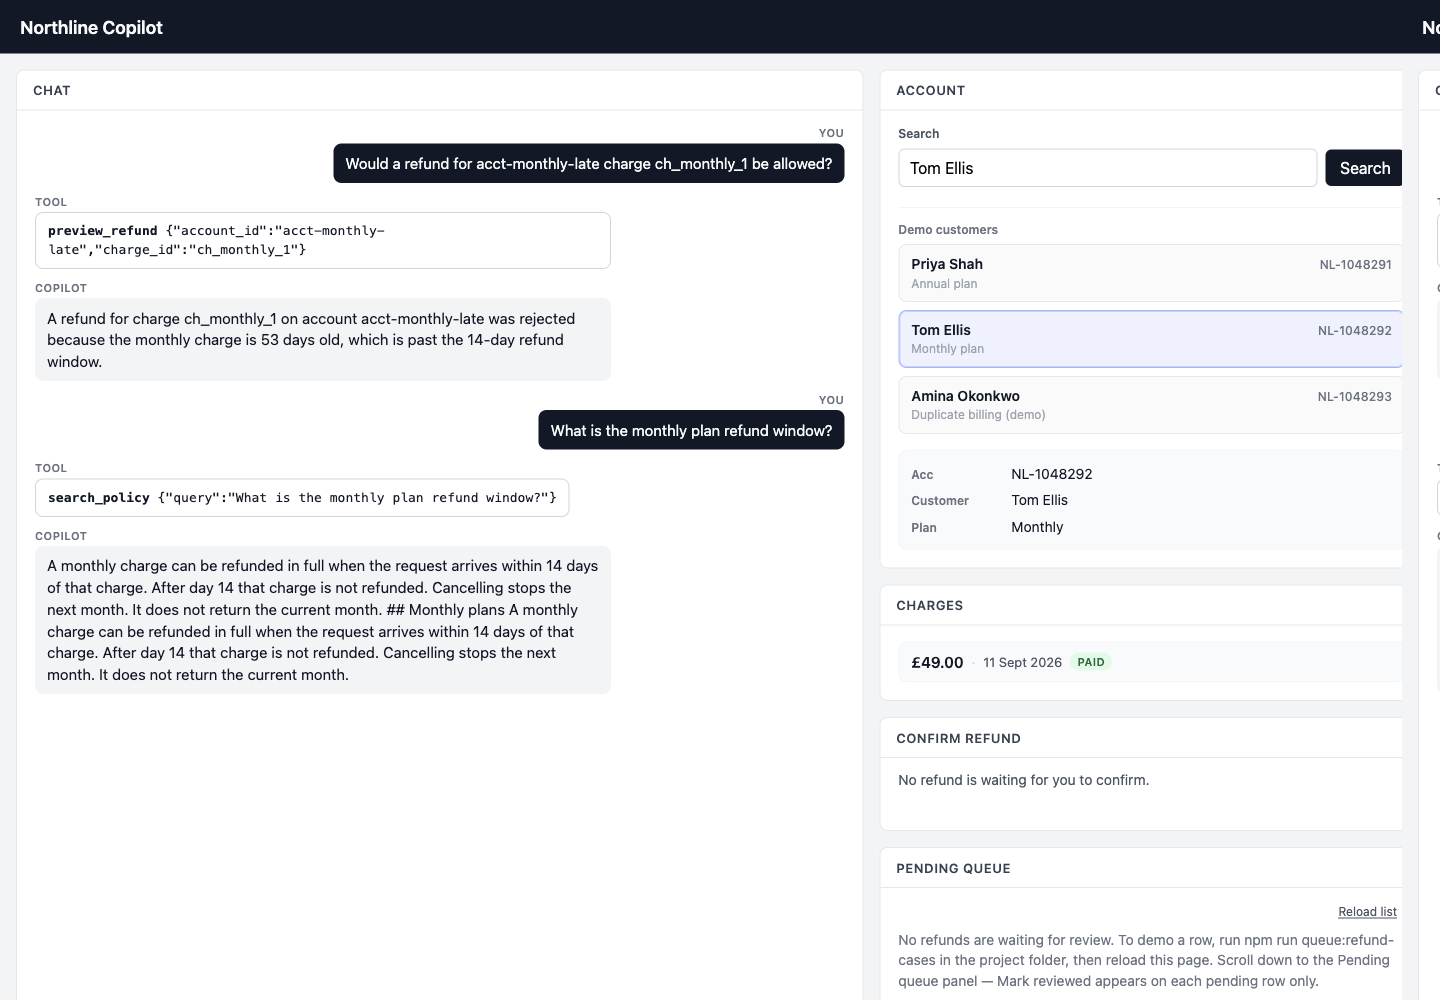
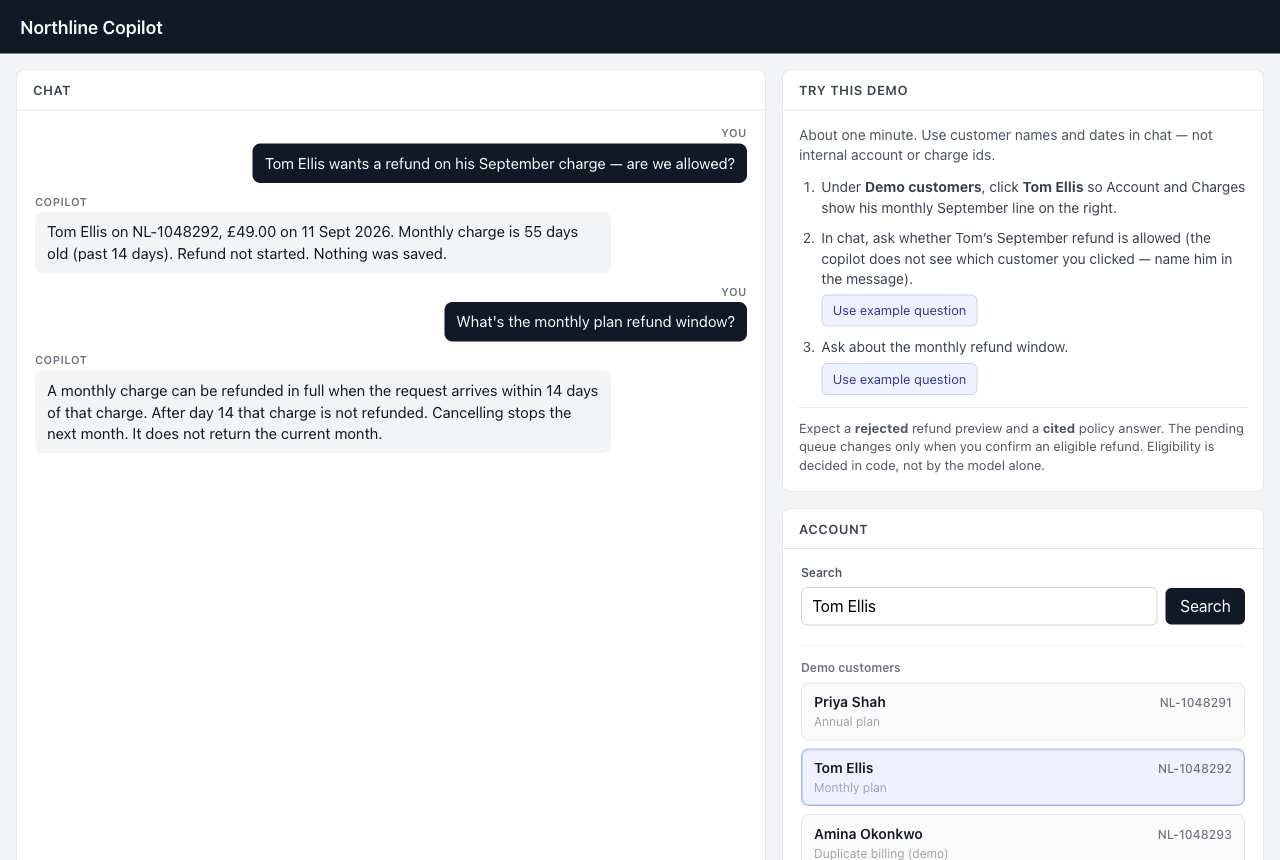
Shorten the README and refresh workspace screenshots from production.

diff --git a/README.md b/README.md
@@ -1,232 +1,52 @@
 # Northline Copilot
 
-A billing support workspace for Northline, a fictional B2B SaaS company. An operator asks about an account in chat. The model looks up facts and quotes stored policy. Refund eligibility is decided in TypeScript. A human confirms before anything is queued. Nothing in this app pays money.
+A demo billing desk for a fictional SaaS company. A support rep asks in plain English about a customer, their charges, a refund, or a stored policy section. The model only chooses a lookup. The answer comes from the database and from refund rules in code. A person has to confirm before anything is queued. Nothing pays out.
 
-All customer, charge, and policy data in the repository is synthetic.
+All customer, charge, and policy data is synthetic.
 
-**Live app:** https://northline-copilot.vercel.app
+**Live app:** https://northline-copilot.vercel.app  
+Password: `northline-demo`
 
-Sign in with the shared demo password `northline-demo`. It is checked on the server and stored only as an HttpOnly cookie. It is not a user account.
+## Try it
 
-## Try the monthly-late case
+1. Sign in and click **Tom Ellis** under Demo customers.
+2. Ask: `Tom Ellis wants a refund on his September charge — are we allowed?`
+3. Ask: `What's the monthly plan refund window?`
 
-In the live workspace, use the **Try this demo** panel on the right (steps and example questions). The walkthrough below is the same journey for readers of this file.
+Tom’s £49 charge from 11 Sept 2026 is past the 14-day window, so the reply is a rejection and Confirm stays empty. The citations panel quotes the stored monthly paragraph. Use a customer name or an NL number. You do not need internal ids.
 
-1. Open https://northline-copilot.vercel.app and sign in with `northline-demo`.
-2. In **Demo customers**, click **Tom Ellis**. The Account panel shows **NL-1048292** and a monthly plan. Charges shows **£49.00** on **11 Sept 2026**.
-3. In chat, ask something you would actually type on a desk, for example:
-   - `Tom Ellis wants a refund on his September charge — are we allowed?`
-   - or, using the account number on the panel: `Can we refund the September charge for NL-1048292?`
-4. Ask: `What's the monthly plan refund window?`
+![Chat rejects Tom Ellis’s September charge. Confirm is not offered.](docs/screenshots/workspace-top.png)
 
-You should see `preview_refund` reject the charge, no confirm button, and an empty pending queue. The policy reply quotes the stored monthly-plan passage, and the citations panel names document `refunds` and chunk `refunds-monthly-plans`. You do not need internal ids like `acct-monthly-late` or `ch_monthly_1` in chat; the server resolves the customer name, the NL- number, or the month against the demo seed when you ask about a refund.
+![Tom’s £49 charge, an empty confirm panel, Priya already waiting, and the monthly policy citation.](docs/screenshots/workspace-citations.png)
 
-Checked on 2026-11-03 against production. The monthly charge was 53 days old, past the 14-day window. `pending_refunds` stayed at 5 rows, 0 pending, and none of them were for `acct-monthly-late`.
+## What a question can do
 
-![Chat rejects the monthly refund and quotes the 14-day window](docs/screenshots/workspace-top.png)
+- Look up one of the three customers, or list their charges.
+- Quote a stored policy section. A topic that is not stored is refused.
+- Check whether one charge can be refunded. The check writes nothing.
+- Read who already has a refund waiting.
 
-![Citations name refunds / refunds-monthly-plans, and the pending queue stays empty](docs/screenshots/workspace-citations.png)
+Confirm appears only after an eligible preview. It posts to `POST /api/refunds/confirm` when the signed session cookie and the proposal cookie match. That inserts a pending row for a person to review. Chat cannot queue a refund by itself.
 
-The same rules are on the local MCP server. Setup is below.
+Annual charges: 30 days. Monthly charges: 14 days. A later successful charge on the same invoice can still be queued. Tests pin the calendar to **2026-10-22**. The live app uses today’s date. Priya’s annual charge is dated 2026-10-11, so that window closes after 2026-11-10.
 
-## Architecture
+## Demo customers
 
-The website and the MCP server both call `lib/`. Refund windows are not copied into SQL, the prompt, or the page.
-
-```text
-Browser (session cookie)
-  POST /api/chat          → lib/chat.ts → OpenAI, then dispatchTool
-  POST /api/tools         → dispatchTool
-  POST /api/refunds/confirm → queueRefund, only if the proposal cookie matches
-  GET  /api/pending-refunds
-  POST /api/pending-refunds/review
-
-MCP stdio (no session cookie)
-  mcp/server.js → dispatchTool for reads and preview
-                → queueRefund only after the human form matches the ids
-
-lib/
-  tools.ts        argument checks, one audit row per call
-  refundRules.ts  eligibility
-  refunds.ts      one Postgres transaction, at most one pending row
-  policy.ts       pgvector search
-  accounts.ts     reads through the Supabase service role
-```
-
-Reads of accounts and charges use `SUPABASE_URL` and `SUPABASE_SERVICE_ROLE_KEY` on the server. Writes, audit rows, token counts, and policy search use `DATABASE_URL`, a Postgres session-mode connection on port 5432. OpenAI is called only from the server. The browser never sees the API key, the service role key, or the session value.
-
-Chat may call `get_account`, `list_charges`, `search_policy`, and `preview_refund`. It cannot call `request_refund`. When a preview would be pending, the route stores that proposal on a second HttpOnly cookie. The confirm button posts the account id and charge id to `POST /api/refunds/confirm`. A `confirmed` field in the body is ignored. The ids have to match the cookie or nothing is inserted.
-
-`GET /api/accounts/[accountId]` is the same account read behind the session cookie. The workspace panels use `POST /api/tools`.
-
-## Tools
-
-| Tool | Who can call it | What it does |
+| Customer | Account | Story |
 | --- | --- | --- |
-| `get_account` | Chat and MCP | One account: customer, plan, id, charges. |
-| `list_charges` | Chat and MCP | Charge lines for one account. A missing account is an error, not an empty list. |
-| `search_policy` | Chat and MCP | Nearest stored policy passages, each with document id and chunk id. |
-| `preview_refund` | Chat and MCP | Same eligibility rules as a write. Returns `pending` or `rejected`. Inserts nothing. |
-| `request_refund` | Not a chat tool. MCP only, after a human form | Calls `queueRefund` when the human types the same account id and charge id. |
+| Priya Shah | NL-1048291 | Annual, £1,788 on 11 Oct 2026. Eligible inside 30 days. |
+| Tom Ellis | NL-1048292 | Monthly, £49 on 11 Sept 2026. Past 14 days. |
+| Amina Okonkwo | NL-1048293 | Two £149 charges on one invoice. The duplicate can be queued. |
 
-Unknown tool names, including a model call to `request_refund` on the website, are logged as “Unknown tool.” with `pending_row_created` false. No pending row is inserted.
-
-## Refund rules
-
-`requestRefund` and `previewRefund` in `lib/refundRules.ts` share one decision:
-
-- Annual plan: the charge is within 30 days.
-- Monthly plan: the charge is within 14 days.
-- Duplicate: a later successful charge on the same invoice can be queued even when the original is outside the window.
-- A charge that already has a pending row is rejected.
-- Reject means nothing is appended.
-
-The live app uses the real calendar day. The eval script pins that day to **2026-10-22**, so the three seed stories stay stable in tests. On the deployed app the age changes as the calendar moves. `ch_annual_1` is dated 2026-10-11, so the annual window on production closes after 2026-11-10.
-
-`queueRefund` runs that decision inside one Postgres transaction. A partial unique index on `(account_id, charge_id)` where status is `pending` stops two pending rows for the same charge.
-
-## MCP setup
-
-`mcp/server.js` is a local stdio process. Cursor starts it. The browser does not call it, and it does not read the website session cookie. It loads `SUPABASE_URL`, `SUPABASE_SERVICE_ROLE_KEY`, `DATABASE_URL`, and `OPENAI_API_KEY` from the repo `.env`.
-
-`request_refund` is registered because `@modelcontextprotocol/sdk` 1.32.2 can ask the human to confirm (`Server.elicitInput`, form mode). The handler ignores any confirmation field on the model arguments. Decline, a mismatched id, or a client that cannot show the form inserts nothing.
-
-Point Cursor at the server with the absolute path to `mcp/server.js` on your machine. This checkout uses `.cursor/mcp.json`:
-
-```json
-{
-  "mcpServers": {
-    "northline": {
-      "command": "node",
-      "args": ["/Users/niallbennett/Desktop/northline-copilot/mcp/server.js"]
-    }
-  }
-}
-```
-
-Replace that path if you cloned the repo somewhere else. Run `npm install` first so `tsx` can load the TypeScript in `lib/`.
-
-Checked from this checkout on 2026-11-03. `preview_refund` for `acct-monthly-late` / `ch_monthly_1` returned rejected, 53 days old, past 14 days, including when the arguments carried `confirmed: true`. `search_policy` for “monthly plan refund window” returned `refunds` / `refunds-monthly-plans`. `request_refund` for the same charge, again with `confirmed: true`, asked for the form. Declining it saved nothing. The pending table did not gain a row.
-
-## Limits
-
-- The app queues a pending review. It does not send a payout.
-- A person can talk the model into asking for a refund or an exception. There is no general prompt-injection detector. `preview_refund` and `queueRefund` still decide, and a rejected or unknown call does not insert a row.
-- A policy quote is kept only when its document id and chunk id were in that turn’s `search_policy` result and the quote is inside that passage. If nothing meets the cutoff, the reply is a refusal and no quote is kept.
-- The similarity cutoff is 0.45 cosine similarity on `text-embedding-3-small`. It was set between known-supported questions (at least 0.476) and known-unsupported ones (at most 0.370). It does not prove a passage answers the question.
-- Chat accepts a message up to 2000 characters and the last 20 turns. One model step runs at most 3 tool calls.
-- The chat model defaults to `gpt-4.1-mini`. Set `OPENAI_MODEL` to override it.
-- Row level security is on for every public table, and there are no policies. The Data API cannot read or write those tables. The service role key stays on the server.
-- MCP is a local process. It is not deployed with the website.
-
-## Eval scorecard
-
-`npm run eval` runs the 45-case set in `tests/evals/scorecard.ts`. Refund cases use the story date **2026-10-22**. The script clears pending rows for `ch_annual_1`, `ch_monthly_1`, `ch_double_dup`, and `ch_double_1` before and after. It does not print an accuracy percentage.
-
-One run on 2026-11-02: **45 pass, 0 fail**. The sample token total is from `chat-cite-annual` in that run (“What is the annual plan refund window?”): 768 prompt tokens, 91 completion tokens, **859 total tokens**.
-
-| Case | Result |
-| --- | --- |
-| `annual-in-window` | pass |
-| `monthly-too-old` | pass |
-| `duplicate-charge` | pass |
-| `unknown-account-queue` | pass |
-| `second-request` | pass |
-| `concurrent-submit` | pass |
-| `preview-annual` | pass |
-| `preview-monthly` | pass |
-| `preview-duplicate` | pass |
-| `preview-unknown-account` | pass |
-| `preview-override` | pass |
-| `preview-unknown-charge` | pass |
-| `preview-original-too-old` | pass |
-| `preview-blank-id` | pass |
-| `failed-request-refund` | pass |
-| `get-account-annual` | pass |
-| `get-account-missing` | pass |
-| `list-charges-double` | pass |
-| `list-charges-missing` | pass |
-| `policy-annual-window` | pass |
-| `policy-monthly-window` | pass |
-| `policy-grace-period` | pass |
-| `policy-scale-uptime` | pass |
-| `policy-escalate-engineering` | pass |
-| `policy-invoices` | pass |
-| `policy-double-charge` | pass |
-| `policy-starter` | pass |
-| `policy-growth` | pass |
-| `policy-service-credit` | pass |
-| `policy-money-returned` | pass |
-| `policy-clock-skew` | pass |
-| `policy-front-line` | pass |
-| `policy-miss-crypto-refund` | pass |
-| `policy-miss-office-snack-policy` | pass |
-| `policy-miss-parental-leave-policy` | pass |
-| `policy-miss-pet-insurance-benefit` | pass |
-| `policy-miss-stock-option-vesting-schedule` | pass |
-| `citation-matching-chunk` | pass |
-| `chat-cite-annual` | pass |
-| `chat-cite-monthly` | pass |
-| `chat-refuse-crypto` | pass |
-| `chat-refuse-snack` | pass |
-| `chat-preview-no-write` | pass |
-| `chat-override` | pass |
-| `chat-failed-tool` | pass |
-
-## Production
-
-The Vercel project is `northline-copilot`. The framework preset is Next.js and the output directory is the Next.js default. An earlier production deploy failed because the project looked for a `public` output folder after `next build`. Production is https://northline-copilot.vercel.app. Deployment protection is off, so the URL opens without a Vercel login. The demo password is the gate.
-
-Server environment variables on Production, names only:
-
-`OPENAI_API_KEY`, `DATABASE_URL`, `SUPABASE_URL`, `SUPABASE_SERVICE_ROLE_KEY`, `DEMO_PASSWORD`, `SESSION_SECRET`.
-
-Do not prefix any of those with `NEXT_PUBLIC_`. Optional: `OPENAI_MODEL`.
-
-The Supabase project is `northline-copilot` in `eu-west-1`. Row level security is enabled on `accounts`, `charges`, `pending_refunds`, `policy_chunks`, `audit_logs`, and `chat_token_usage`, with no policies. `DATABASE_URL` is the session pooler on port **5432**, not the transaction pooler on 6543. Percent-encode special characters in the password.
-
-`chat_token_usage` stores prompt, completion, and total tokens for a chat turn. It does not store the message text or the API key.
-
-## Local setup
-
-1. `npm install`
-2. Copy `.env.example` to `.env` and fill in the same server variables as production.
-3. Apply migrations to the linked project when a new file is added:
+## Local
 
 ```bash
-supabase migration list --linked
-supabase db push
+npm install
+cp .env.example .env   # same server variables as production
+npm run dev            # http://localhost:3000
+npm test
 ```
 
-Policy search needs embeddings. After the policy migration, `npm run embed:policy` fills the vector column. The linked project already has them.
+`mcp/server.js` is a local stdio server with the same lookups. It does not use the website cookie. A refund from MCP still needs the human confirm form. Point Cursor at it from `.cursor/mcp.json`.
 
-```bash
-npm run dev                   # http://localhost:3000
-npm test                      # refund rules and other unit tests, no database
-npm run test:integration      # queueRefund against Postgres
-npm run eval                  # 45-case scorecard
-```
-
-## Demo accounts
-
-Refund windows in tests and `npm run eval` use **2026-10-22**:
-
-| Account | Customer | Scenario |
-| --- | --- | --- |
-| `acct-annual-ok` | Priya Shah | Annual charge `ch_annual_1` within 30 days. Eligible to queue. |
-| `acct-monthly-late` | Tom Ellis | Monthly charge `ch_monthly_1` outside 14 days. Rejected, no row. |
-| `acct-double` | Amina Okonkwo | Two successful charges on one invoice. The duplicate can be queued. |
-
-## Project layout
-
-| Path | What it is |
-| --- | --- |
-| `app/` | Pages and route handlers. They check the session, then call `lib/`. |
-| `components/` | Workspace UI. It does not decide a refund. |
-| `lib/` | Rules, tools, database, policy search, audit, token counts. |
-| `mcp/server.js` | Local stdio MCP server. |
-| `supabase/migrations/` | Schema, seed, grants. |
-| `tests/evals/scorecard.ts` | The 45-case set. |
-| `docs/screenshots/` | Production screenshots for the monthly-late case. |
-
-Build history: [MILESTONES.md](./MILESTONES.md). M01–M26 are done.
+Build history: [MILESTONES.md](./MILESTONES.md).
